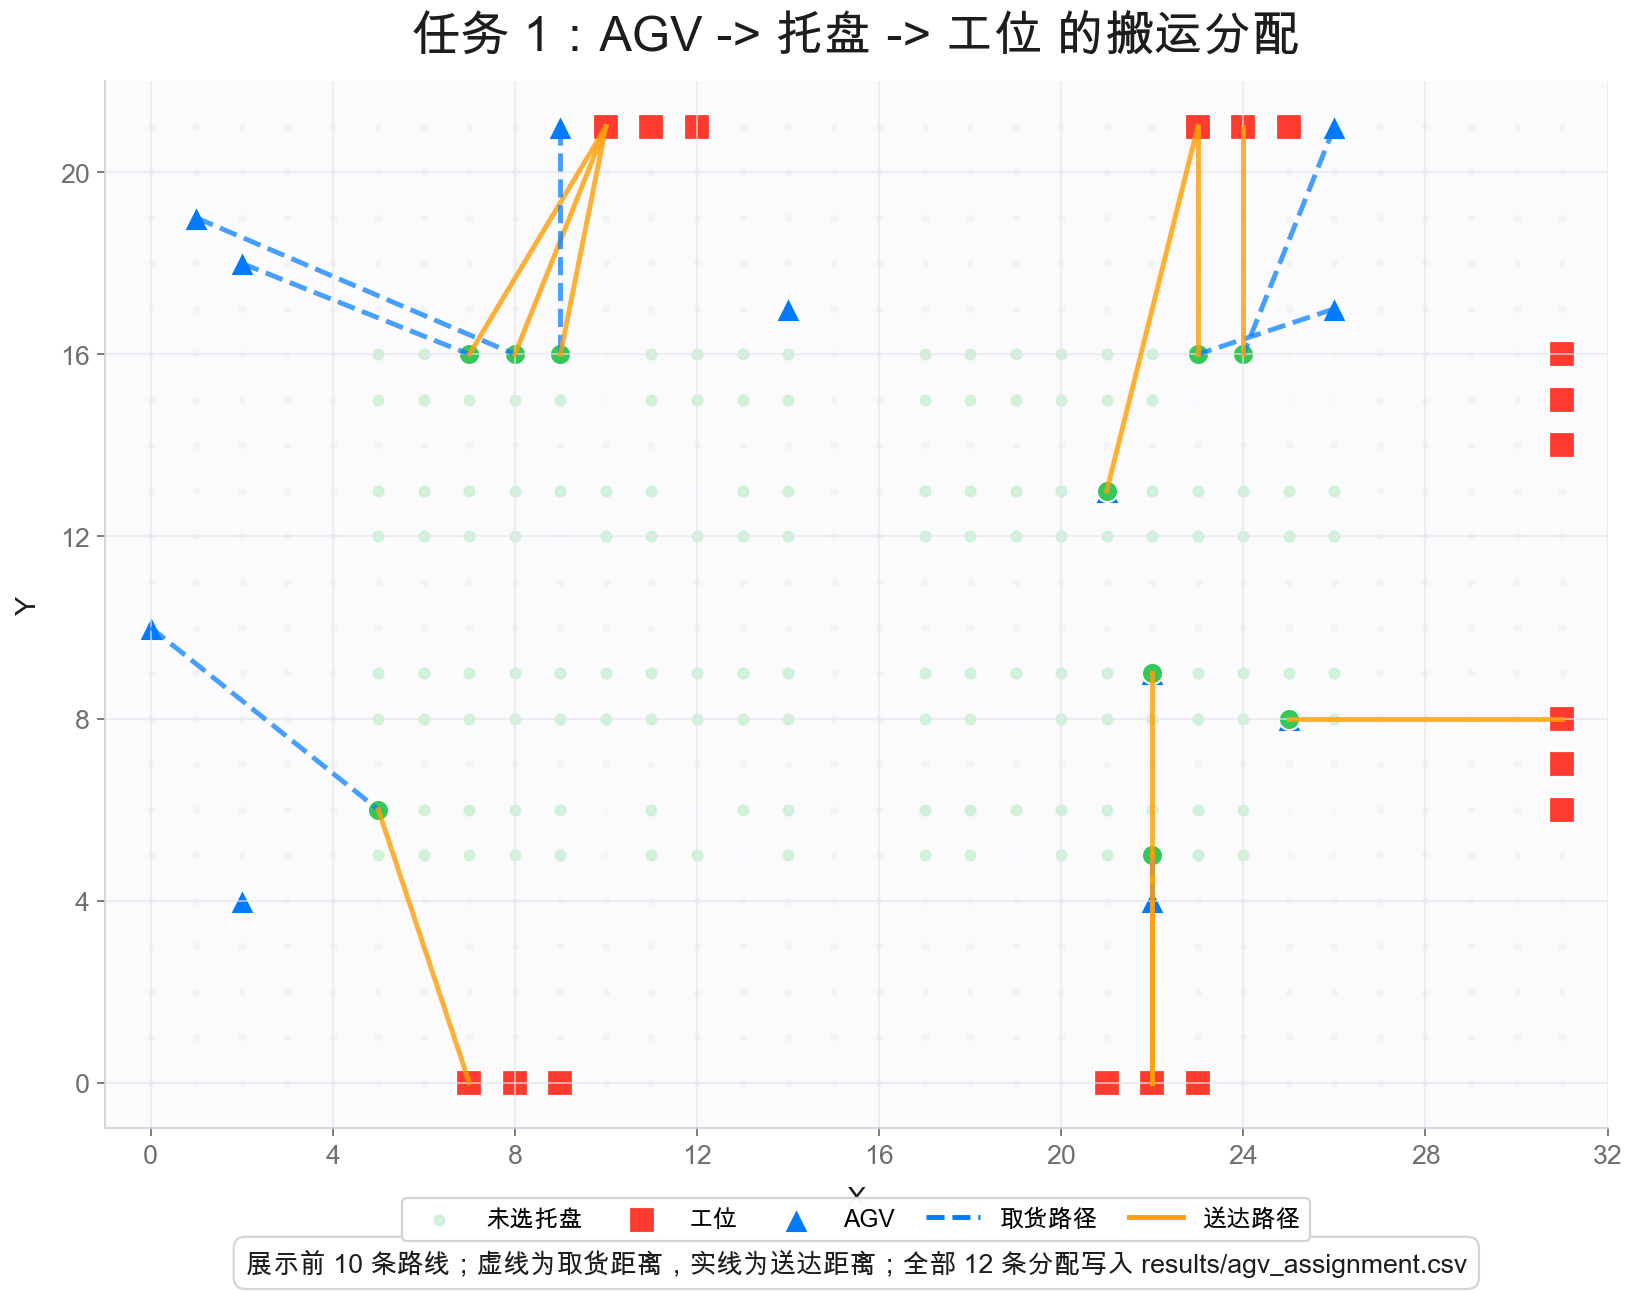
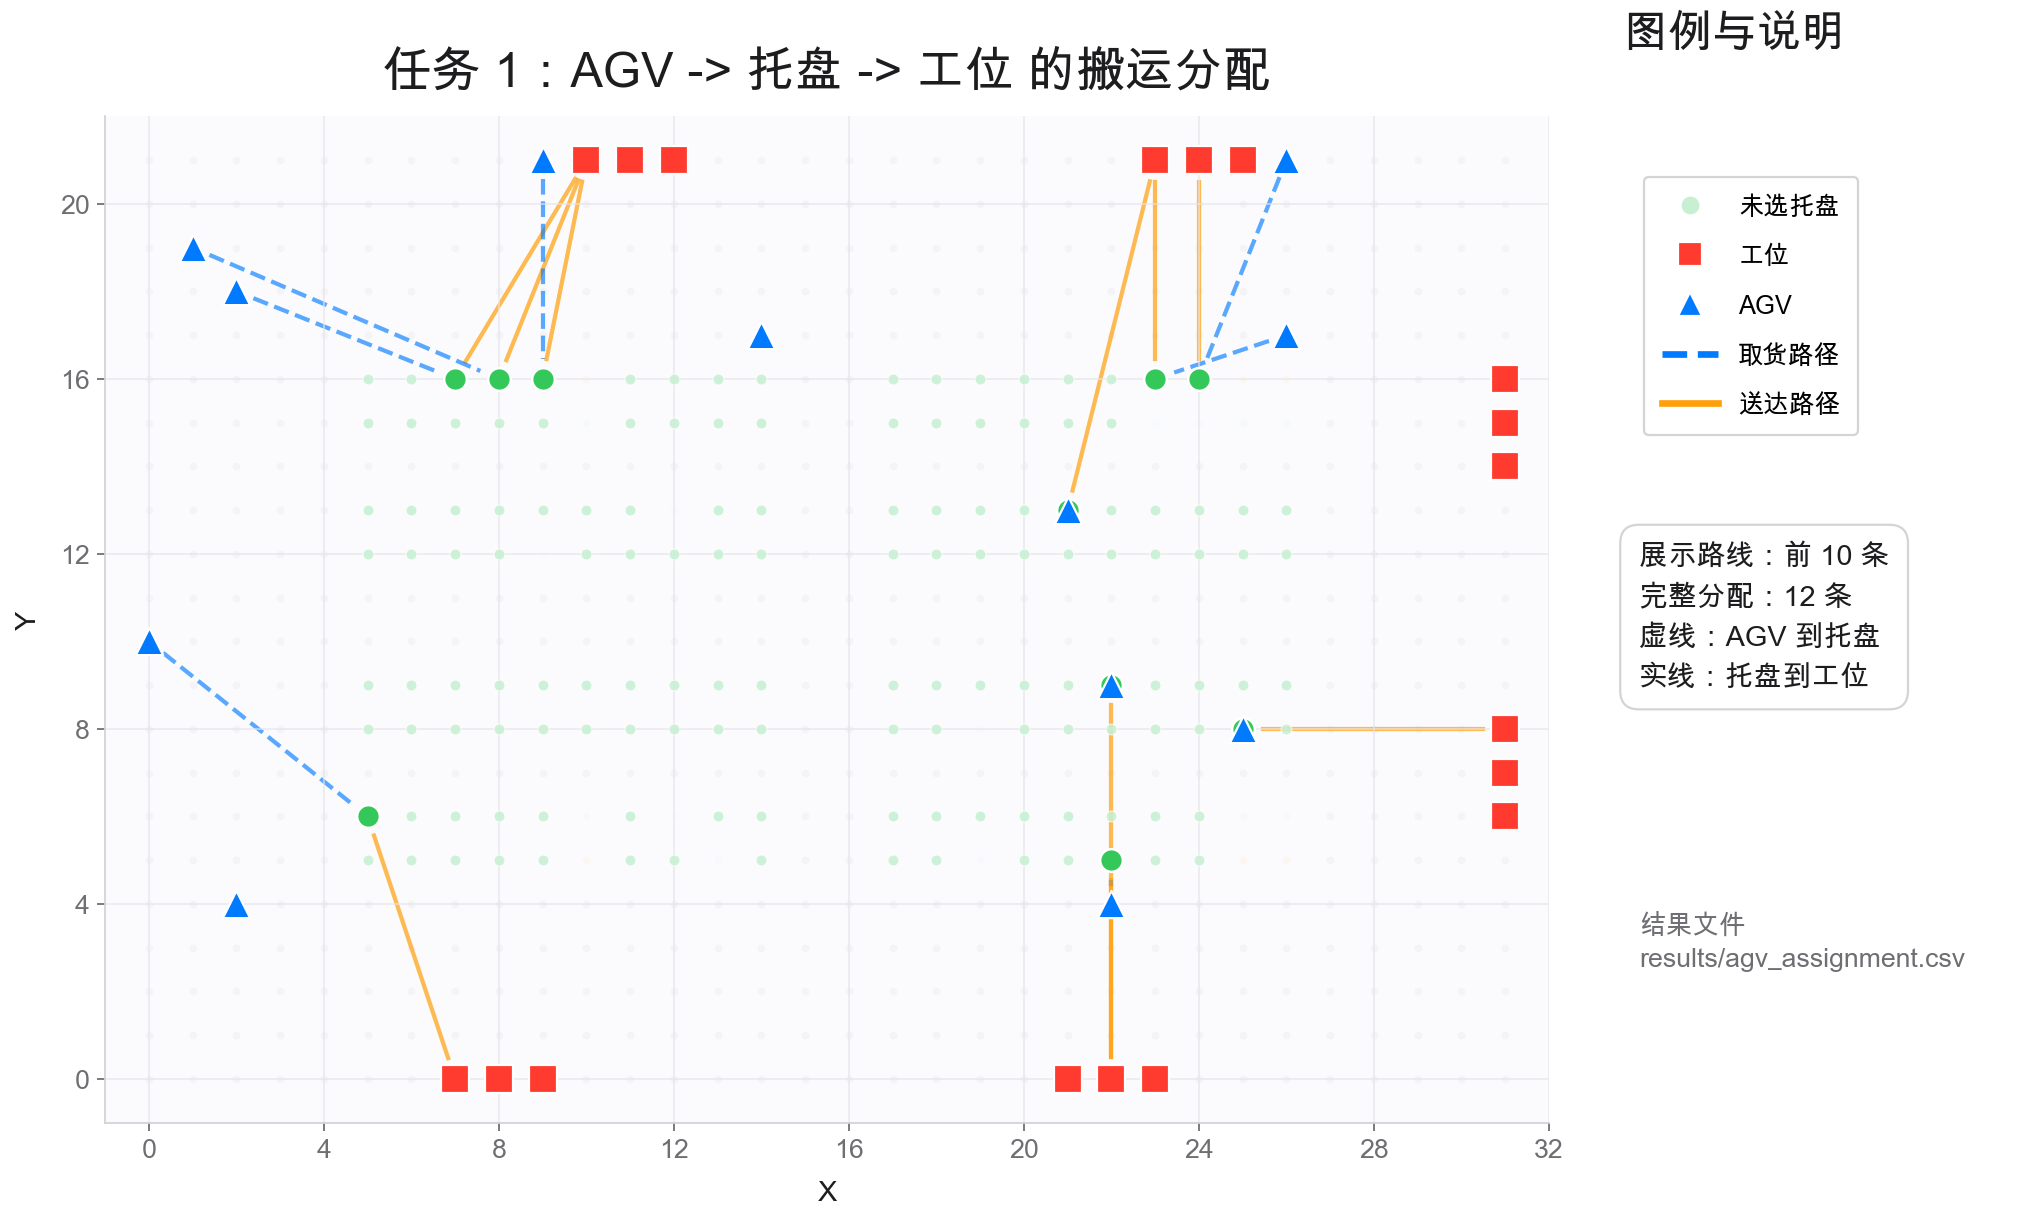
Fix figure overlaps and map node legends

diff --git a/scripts/make_readme_figures.py b/scripts/make_readme_figures.py
@@ -4,6 +4,7 @@ from pathlib import Path
 import sys
 
 import matplotlib.font_manager as fm
+from matplotlib.lines import Line2D
 import matplotlib.pyplot as plt
 import numpy as np
 import pandas as pd
@@ -124,6 +125,62 @@ def place_legend(ax: plt.Axes, *, columns: int, y: float = -0.08) -> None:
     )
 
 
+def marker_handle(marker: str, color: str, label: str, *, size: int = 10) -> Line2D:
+    return Line2D(
+        [0],
+        [0],
+        marker=marker,
+        color="none",
+        markerfacecolor=color,
+        markeredgecolor="white",
+        markeredgewidth=1.0,
+        markersize=size,
+        label=label,
+    )
+
+
+def line_handle(color: str, label: str, *, linestyle: str = "-") -> Line2D:
+    return Line2D(
+        [0],
+        [0],
+        color=color,
+        linestyle=linestyle,
+        linewidth=3.0,
+        label=label,
+    )
+
+
+def shortened_segment(
+    start: np.ndarray,
+    end: np.ndarray,
+    *,
+    start_gap: float = 0.32,
+    end_gap: float = 0.32,
+) -> tuple[np.ndarray, np.ndarray]:
+    delta = end.astype(float) - start.astype(float)
+    length = float(np.linalg.norm(delta))
+    if length <= start_gap + end_gap + 1e-9:
+        return start.astype(float), end.astype(float)
+    direction = delta / length
+    return start.astype(float) + start_gap * direction, end.astype(float) - end_gap * direction
+
+
+def panel_legend(ax: plt.Axes, handles: list[Line2D], *, y: float = 0.96) -> None:
+    ax.legend(
+        handles=handles,
+        loc="upper left",
+        bbox_to_anchor=(0.02, y),
+        frameon=True,
+        facecolor="white",
+        edgecolor=COLORS["edge"],
+        framealpha=0.96,
+        prop={"size": 11.5, "weight": "semibold"},
+        handlelength=2.2,
+        labelspacing=1.0,
+        borderpad=0.7,
+    )
+
+
 def scatter_nodes(ax: plt.Axes, data, *, alpha: float = 0.20) -> None:
     if not data.nodes:
         return
@@ -146,6 +203,7 @@ def scatter_nodes(ax: plt.Axes, data, *, alpha: float = 0.20) -> None:
             alpha=alpha if node_type != "5" else 0.85,
             linewidths=0,
             label="_nolegend_",
+            zorder=0,
         )
 
 
@@ -246,54 +304,135 @@ def draw_task1_assignment() -> None:
     data = load_data(agv_sample_prob=0.6, seed=0, max_agvs=12)
     assignments = pd.read_csv(RESULTS_DIR / "agv_assignment.csv")
 
-    fig, ax = plt.subplots(figsize=(14.5, 8.5), dpi=160)
+    fig = plt.figure(figsize=(15.5, 8.8), dpi=160)
+    gs = fig.add_gridspec(1, 2, width_ratios=[1.25, 0.35], wspace=0.08)
+    ax = fig.add_subplot(gs[0, 0])
+    ax_info = fig.add_subplot(gs[0, 1])
+    ax_info.axis("off")
     scatter_nodes(ax, data, alpha=0.13)
     pallets = np.asarray(data.pallets)
     workstations = np.asarray(data.workstations)
     agvs = np.asarray(data.agvs)
-    ax.scatter(pallets[:, 0], pallets[:, 1], s=20, c=COLORS["pallet_light"], alpha=0.75, label="未选托盘")
-    ax.scatter(workstations[:, 0], workstations[:, 1], s=130, c=COLORS["workstation"], marker="s", edgecolors="white", label="工位")
-    ax.scatter(agvs[:, 0], agvs[:, 1], s=130, c=COLORS["agv"], marker="^", edgecolors="white", label="AGV")
+    ax.scatter(
+        pallets[:, 0],
+        pallets[:, 1],
+        s=24,
+        c=COLORS["pallet_light"],
+        alpha=0.86,
+        edgecolors="white",
+        linewidths=0.4,
+        label="未选托盘",
+        zorder=3,
+    )
 
     shown = assignments.head(10)
     for row in shown.itertuples(index=False):
         agv = agvs[int(row.agv_index)]
         pallet = pallets[int(row.pallet_index)]
         workstation = workstations[int(row.workstation_index)]
+        pickup_start, pickup_end = shortened_segment(
+            agv,
+            pallet,
+            start_gap=0.42,
+            end_gap=0.46,
+        )
+        delivery_start, delivery_end = shortened_segment(
+            pallet,
+            workstation,
+            start_gap=0.46,
+            end_gap=0.50,
+        )
         ax.plot(
-            [agv[0], pallet[0]],
-            [agv[1], pallet[1]],
+            [pickup_start[0], pickup_end[0]],
+            [pickup_start[1], pickup_end[1]],
             color=COLORS["route_pickup"],
-            linewidth=2.2,
+            linewidth=1.9,
             linestyle="--",
-            alpha=0.72,
+            alpha=0.64,
+            zorder=1,
         )
         ax.plot(
-            [pallet[0], workstation[0]],
-            [pallet[1], workstation[1]],
+            [delivery_start[0], delivery_end[0]],
+            [delivery_start[1], delivery_end[1]],
             color=COLORS["route_delivery"],
-            linewidth=2.2,
-            alpha=0.82,
+            linewidth=1.9,
+            alpha=0.70,
+            zorder=1,
         )
-        ax.scatter([pallet[0]], [pallet[1]], s=90, c=COLORS["pallet"], edgecolors="white", linewidths=0.9)
+        ax.scatter(
+            [pallet[0]],
+            [pallet[1]],
+            s=104,
+            c=COLORS["pallet"],
+            edgecolors="white",
+            linewidths=1.1,
+            zorder=6,
+        )
+
+    ax.scatter(
+        workstations[:, 0],
+        workstations[:, 1],
+        s=150,
+        c=COLORS["workstation"],
+        marker="s",
+        edgecolors="white",
+        linewidths=1.0,
+        label="工位",
+        zorder=7,
+    )
+    ax.scatter(
+        agvs[:, 0],
+        agvs[:, 1],
+        s=150,
+        c=COLORS["agv"],
+        marker="^",
+        edgecolors="white",
+        linewidths=1.0,
+        label="AGV",
+        zorder=8,
+    )
 
     setup_map_axis(ax, data)
     ax.set_title("任务 1：AGV -> 托盘 -> 工位 的搬运分配", fontsize=22, fontweight="bold", pad=14)
-    ax.text(
-        0.5,
-        -0.115,
-        f"展示前 {len(shown)} 条路线；虚线为取货距离，实线为送达距离；全部 {len(assignments)} 条分配写入 results/agv_assignment.csv",
-        transform=ax.transAxes,
-        ha="center",
-        va="top",
-        fontsize=12,
+
+    ax_info.set_title("图例与说明", loc="left", fontsize=20, fontweight="bold", pad=14)
+    task1_handles = [
+        marker_handle("o", COLORS["pallet_light"], "未选托盘", size=9),
+        marker_handle("s", COLORS["workstation"], "工位", size=11),
+        marker_handle("^", COLORS["agv"], "AGV", size=11),
+        line_handle(COLORS["route_pickup"], "取货路径", linestyle="--"),
+        line_handle(COLORS["route_delivery"], "送达路径"),
+    ]
+    panel_legend(ax_info, task1_handles, y=0.92)
+    ax_info.text(
+        0.04,
+        0.44,
+        f"展示路线：前 {len(shown)} 条\n"
+        f"完整分配：{len(assignments)} 条\n"
+        "虚线：AGV 到托盘\n"
+        "实线：托盘到工位",
+        transform=ax_info.transAxes,
+        fontsize=13,
+        fontweight="semibold",
         color=COLORS["text"],
-        bbox={"boxstyle": "round,pad=0.45", "facecolor": "white", "edgecolor": COLORS["edge"], "alpha": 0.94},
-        clip_on=False,
+        linespacing=1.65,
+        bbox={
+            "boxstyle": "round,pad=0.65",
+            "facecolor": "white",
+            "edgecolor": COLORS["edge"],
+            "alpha": 0.96,
+        },
     )
-    ax.plot([], [], color=COLORS["route_pickup"], linestyle="--", linewidth=2.2, label="取货路径")
-    ax.plot([], [], color=COLORS["route_delivery"], linewidth=2.2, label="送达路径")
-    place_legend(ax, columns=5, y=-0.055)
+    ax_info.text(
+        0.04,
+        0.18,
+        "结果文件\nresults/agv_assignment.csv",
+        transform=ax_info.transAxes,
+        fontsize=12,
+        fontweight="semibold",
+        color=COLORS["muted"],
+        linespacing=1.5,
+    )
     fig.savefig(FIG_DIR / "task1_agv_assignment.png", bbox_inches="tight")
     plt.close(fig)
 
@@ -376,7 +515,17 @@ def draw_task3_layout() -> None:
     ax_map = fig.add_subplot(gs[0, 0])
     ax_table = fig.add_subplot(gs[0, 1])
     scatter_nodes(ax_map, data, alpha=0.10)
-    ax_map.scatter(pallets[:, 0], pallets[:, 1], s=34, c=COLORS["candidate"], alpha=0.78, label="候选货位")
+    ax_map.scatter(
+        pallets[:, 0],
+        pallets[:, 1],
+        s=38,
+        c=COLORS["candidate"],
+        alpha=0.86,
+        edgecolors="white",
+        linewidths=0.4,
+        label="候选货位",
+        zorder=3,
+    )
     ax_map.scatter(
         selected[:, 0],
         selected[:, 1],
@@ -386,27 +535,37 @@ def draw_task3_layout() -> None:
         linewidths=1.2,
         marker="D",
         label="选中重点位置",
+        zorder=6,
     )
-    radius = 6
-    for x, y in selected:
-        diamond_x = [x, x + radius, x, x - radius, x]
-        diamond_y = [y + radius, y, y - radius, y, y + radius]
-        ax_map.plot(diamond_x, diamond_y, color=COLORS["selected"], alpha=0.24, linewidth=1.2)
     setup_map_axis(ax_map, data)
     ax_map.set_title("任务 3：从候选货位中选择分散的重点缓存/中转位置", fontsize=22, fontweight="bold", pad=14)
-    place_legend(ax_map, columns=2, y=-0.08)
 
     ax_table.axis("off")
     ax_table.set_title("选中结果", loc="left", fontsize=20, fontweight="bold", pad=14)
     ax_table.text(
         0.02,
-        0.90,
+        0.88,
         f"选中数量：{len(selected_idx)}\n最小曼哈顿距离：{int(min_pair)}\n约束要求：距离 > 6",
         transform=ax_table.transAxes,
         fontsize=15,
         color=COLORS["text"],
         linespacing=1.7,
     )
+    ax_table.text(
+        0.02,
+        0.69,
+        "图中只保留候选点与最终选中点；\n间距约束通过右侧指标体现，\n避免辅助线遮挡数据点。",
+        transform=ax_table.transAxes,
+        fontsize=11.5,
+        fontweight="semibold",
+        color=COLORS["muted"],
+        linespacing=1.45,
+    )
+    task3_handles = [
+        marker_handle("o", COLORS["candidate"], "候选货位", size=10),
+        marker_handle("D", COLORS["selected"], "选中重点位置", size=12),
+    ]
+    panel_legend(ax_table, task3_handles, y=0.51)
     rows = [
         [int(row.pallet_index), int(row.x), int(row.y)]
         for row in selected_df.itertuples(index=False)
@@ -417,10 +576,10 @@ def draw_task3_layout() -> None:
         cellLoc="center",
         colLoc="center",
         loc="center",
-        bbox=[0.02, 0.08, 0.82, 0.66],
+        bbox=[0.02, 0.02, 0.86, 0.32],
     )
     table.auto_set_font_size(False)
-    table.set_fontsize(11)
+    table.set_fontsize(10.5)
     for cell in table.get_celld().values():
         cell.set_edgecolor(COLORS["grid"])
         cell.set_linewidth(0.6)

diff --git a/README.md b/README.md
@@ -79,6 +79,7 @@ dist(a, b) = |x_a - x_b| + |y_a - y_b|
 - 跳过 CSV 中的说明行和注释行；
 - 将 `pallets.csv` 中的 `"SKU:数量,SKU:数量"` 字符串解析为字典，并把每个托盘内的 SKU 数量加总为托盘货量 `q(j)`；
 - 从 `map.csv` 中提取类型为 `5` 的节点作为工位坐标；
+- `map.csv` 中的类型 `1/2/3/4/6/7/8` 在当前实验中只作为仓库背景节点或原始地图节点保留，不作为单独的决策实体，因此配图图例不再展示“节点 6/7/8”这类容易误导的标签；
 - 从 `bots.csv` 中读取 AGV 坐标，默认用固定随机种子抽取 12 辆，表示一个可复现的当前调度批次；
 - 用坐标构造 AGV-托盘、托盘-工位、托盘-托盘距离矩阵。
 

diff --git a/README.en.md b/README.en.md
@@ -124,6 +124,9 @@ Data preprocessing includes:
 - parsing the `"SKU:quantity,SKU:quantity"` string in `pallets.csv` into a
   dictionary and aggregating each pallet's total quantity `q(j)`;
 - reading nodes with type `5` in `map.csv` as workstation coordinates;
+- keeping `map.csv` node types `1/2/3/4/6/7/8` as background or raw map nodes
+  rather than separate decision entities; therefore labels such as "node 6/7/8"
+  are no longer shown in the figure legends;
 - reading AGV coordinates from `bots.csv` and sampling 12 AGVs with a fixed
   seed for a reproducible dispatching batch;
 - building AGV-pallet, pallet-workstation, and pallet-pallet distance matrices.
